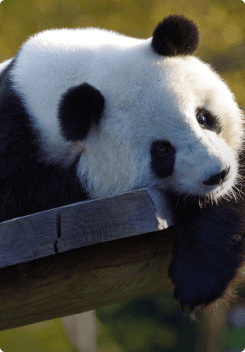
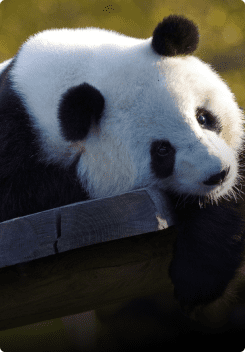
fix: image size

diff --git a/src/components/map/map.sass b/src/components/map/map.sass
@@ -38,30 +38,30 @@
     top: 18%;
     left: 10%;
     & .marker__image
-      background-image: url('../../assets/images/pet-cards/eagle2.jpg')
+      background-image: url('../../assets/images/pet-cards/eagle.png')
     & .animal-info__image
-      background-image: url('../../assets/images/map/eagle.png')
+      background-image: url('../../assets/images/map/map-eagle.png')
   &.marker-Alligator
     top: 22%;
     left: 19.3%;
     & .marker__image
-      background-image: url('../../assets/images/pet-cards/alligator2.jpg')
+      background-image: url('../../assets/images/pet-cards/alligator.png')
     & .animal-info__image
-      background-image: url('../../assets/images/pet-cards/alligator2.jpg')
+      background-image: url('../../assets/images/pet-cards/alligator.png')
   &.marker-Gorilla
     top: 34%;
     left: 43.5%;
     & .marker__image
-      background-image: url('../../assets/images/pet-cards/gorilla2.jpg')
+      background-image: url('../../assets/images/pet-cards/gorilla.png')
     & .animal-info__image
-      background-image: url('../../assets/images/pet-cards/gorilla2.jpg')
+      background-image: url('../../assets/images/pet-cards/gorilla.png')
   &.marker-Panda
     top: 20%;
     left: 67.5%;
     & .marker__image
-      background-image: url('../../assets/images/pet-cards/panda2.jpg')
+      background-image: url('../../assets/images/pet-cards/panda.png')
     & .animal-info__image
-      background-image: url('../../assets/images/pet-cards/panda2.jpg')
+      background-image: url('../../assets/images/pet-cards/panda.png')
   & .marker__animal-info
     cursor: default
     display: none

diff --git a/src/components/rnssnc-slider/slider.js b/src/components/rnssnc-slider/slider.js
@@ -138,8 +138,8 @@ export default class Slider {
 
   addActiveState(currentSlide) {
     currentSlide.classList.add('slide-active');
-    const newActiveState = new Event('newActiveState');
-    this.slider.dispatchEvent(newActiveState);
+    const afterChange = new Event('afterChange');
+    this.slider.dispatchEvent(afterChange);
   }
 
   removeActiveState(currentSlide) {
@@ -289,21 +289,21 @@ export default class Slider {
 
   goTo(slideIndex) {
     const countToSlide = slideIndex - this.currentSlideIndex;
-    // console.log(countToSlide);
-    console.log(slideIndex);
     if (this.centerMode || this.slides.length - this.slidesToShow >= slideIndex) {
       this.shiftSlide(countToSlide);
     } else if ((slideIndex) => this.slidesToShow) {
       this.removeActiveState(this.slides[this.prevIndex]);
       this.prevIndex = slideIndex;
 
-      console.log(this.prevIndex);
       this.shiftSlide(this.slides.length - this.slidesToShow - this.currentSlideIndex);
       this.addActiveState(this.slides[slideIndex]);
     }
   }
 
   shiftSlide(count) {
+    const beforeChange = new Event('beforeChange');
+    this.slider.dispatchEvent(beforeChange, 'asd');
+
     if (this.variableWidth) this.slideWidth = this.slideWidths[this.currentSlideIndex + count];
 
     this.transformValue += -count * this.slideWidth;

diff --git a/src/js/animals.js b/src/js/animals.js
@@ -16,7 +16,7 @@ const animals = [
       name: 'Alligator and Spoonbill Swamp',
       region: 'on an island near Los Angeles',
       population: 'more than 270 pairs in 2013',
-      src: 'assets/images/pet-cards/alligator2.jpg',
+      src: 'assets/images/pet-cards/alligator.png',
       href: '#',
     },
     country: 'US',
@@ -27,7 +27,7 @@ const animals = [
       name: 'Grace Gorilla Forest Corridor',
       region: 'on an island near Los Angeles',
       population: 'more than 270 pairs in 2013',
-      src: 'assets/images/pet-cards/gorilla2.jpg',
+      src: 'assets/images/pet-cards/gorilla.png',
       href: '#',
     },
     country: 'CM',
@@ -38,7 +38,7 @@ const animals = [
       name: 'Flexing panda',
       region: 'on an island near Los Angeles',
       population: 'About 1,590 individuals',
-      src: 'assets/images/pet-cards/panda2.jpg',
+      src: 'assets/images/pet-cards/panda.png',
       href: '#',
     },
     country: 'CN',

diff --git a/src/pages/zoos/zoos.js b/src/pages/zoos/zoos.js
@@ -1,4 +1,3 @@
-import 'normalize.css';
 import '../base/base';
 
 import './zoos.sass';
@@ -11,8 +10,7 @@ import Heading from '../../js/components/Heading/Heading';
 // class VideoPlayer {}
 
 const main = document.querySelector('.main');
-const pageWrapper = new Control(main, 'div', 'section-wrapper animals-player-section__wrapper')
-  .node;
+const pageWrapper = new Control(main, 'div', 'section-wrapper animals-player-section__wrapper').node;
 
 class MainContent extends Control {
   constructor() {
@@ -20,7 +18,7 @@ class MainContent extends Control {
 
     this.contentWrapper = new Control(this.node, 'div', 'section__content-wrapper');
 
-    this.heading = new Heading(
+    this.pageheading = new Heading(
       this.contentWrapper.node,
       'h1',
       'animals-player-section__header typography__section-title',

diff --git a/src/components/slider-scrollbar/Scrollbar.js b/src/components/slider-scrollbar/Scrollbar.js
@@ -33,11 +33,15 @@ export default class ScrollBar extends Control {
 
   setupListeners() {
     this.range.addEventListener('input', this.handleRangeChange);
-    // this.range.addEventListener('change', this.handleRangeChange);
+  }
+
+  updateValue() {
+    // console.log('s');
+    this.valueDisplay.setValue(+this.range.value + 1, this.separator, this.slider.slides.length);
   }
 
   handleRangeChange = () => {
-    this.valueDisplay.setValue(+this.range.value + 1, this.separator, this.slider.slides.length);
+    this.updateValue();
     this.slider.goTo(this.range.value, this.useAnimation);
     // console.log(this.range.value);
   };

diff --git a/src/components/hero/hero.js b/src/components/hero/hero.js
@@ -45,9 +45,10 @@ const sliderWrapper = document.querySelector('.hero-section__pets-slider-wrapper
 
 const scrollbar = new Scrollbar(sliderWrapper, slider, '123', '/', 245, true);
 
-// slider.slider.addEventListener('newActiveState', () => {
-//   console.log('wow ' + slider.currentSlideIndex);
-// });
+slider.slider.addEventListener('beforeChange', (e, test) => {
+  scrollbar.range.value = slider.currentSlideIndex;
+  scrollbar.updateValue();
+});
 
 // range.addEventListener('input', () => {
 //   console.log('a');
